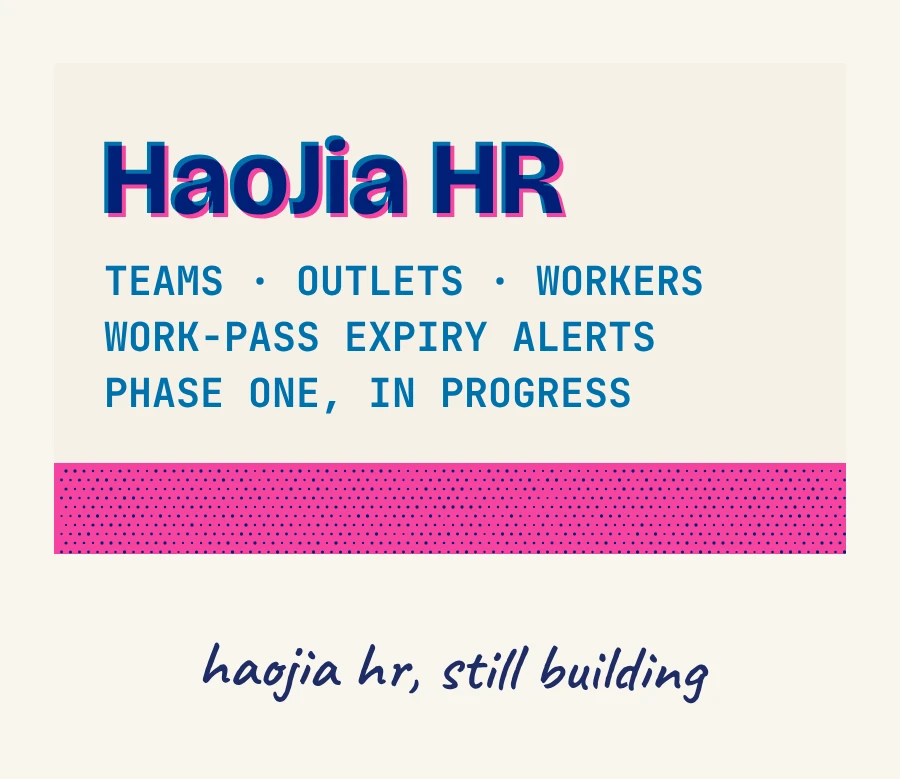
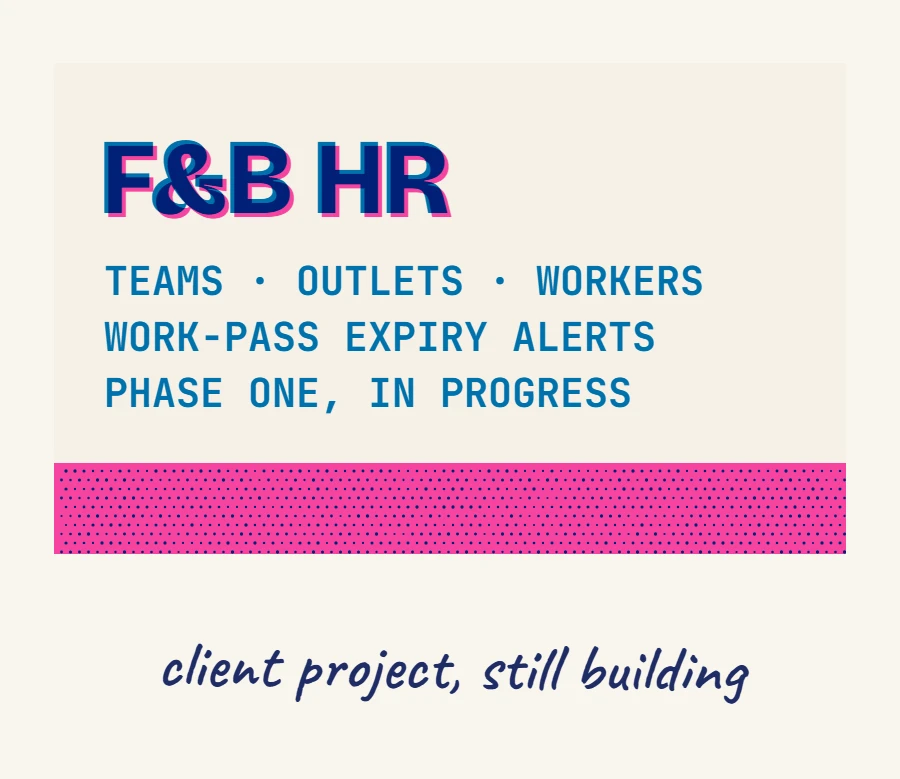
Update portfolio and project descriptions; modify launch configuration

Changed region(s): [[0.1244, 0.154, 0.6533, 0.3081], [0.1867, 0.8318, 0.84, 0.9243]]

diff --git a/site/index.html b/site/index.html
@@ -83,18 +83,17 @@
           <p class="links"><a href="https://buildup-showcase.vercel.app" target="_blank" rel="noopener">Showcase ↗</a><a href="https://buildup-showcase.vercel.app/prototype/jobseeker_latest.html" target="_blank" rel="noopener">Jobseeker app ↗</a><a href="https://buildup-showcase.vercel.app/prototype/employer_latest.html" target="_blank" rel="noopener">Employer portal ↗</a></p>
         </li>
         <li class="project" data-project="2">
-          <p class="meta mono">Personal project · 2026</p>
+          <p class="meta mono">Software Deployment and Evolution · 2026 · Team lead</p>
           <h3>kacha</h3>
-          <p>A photobooth in the browser. Choose a strip, take your shots, edit them with filters, and keep every strip in an album of memories.</p>
-          <ul class="stack mono"><li>React 19</li><li>Vite</li><li>Supabase Auth</li><li>Express</li></ul>
-          <p class="links"><a href="https://kacha-smoky.vercel.app" target="_blank" rel="noopener">Live site ↗</a><a href="https://github.com/Uwe1209/kacha" target="_blank" rel="noopener">Code ↗</a></p>
+          <p>A photobooth in the browser. Choose a strip, take your shots, edit them with filters, and keep every strip in an album of memories. I led the four-person team, built the server and CI, and deployed it on Vercel.</p>
+          <ul class="stack mono"><li>React 19</li><li>Vite</li><li>Express</li><li>PostgreSQL</li><li>GitHub Actions</li><li>Vercel</li></ul>
+          <p class="links"><a href="https://kacha-smoky.vercel.app" target="_blank" rel="noopener">Live site ↗</a></p>
         </li>
         <li class="project" data-project="3">
-          <p class="meta mono">2026 · Full-stack · in progress</p>
-          <h3>HaoJia HR</h3>
+          <p class="meta mono">Client project · 2026 · in progress</p>
+          <h3>F&amp;B HR System</h3>
           <p>An HR system for a food and beverage group with several outlets, replacing the staff spreadsheet with one source of truth. Phase one covers teams, outlets and worker profiles, with work-pass expiry warnings and role-based access designed into the database.</p>
           <ul class="stack mono"><li>React</li><li>TypeScript</li><li>Vite</li><li>Supabase</li><li>React Hook Form</li><li>Zod</li></ul>
-          <p class="links"><a href="https://github.com/Uwe1209/HaoJiaHRSystem" target="_blank" rel="noopener">Code ↗</a></p>
         </li>
         <li class="project" data-project="4">
           <p class="meta mono">2026 · Full-stack</p>

diff --git a/tools/bake/manifest.js b/tools/bake/manifest.js
@@ -541,7 +541,7 @@ export const TEXTURES = {
   'card-spex': { make: (p) => instant(p, 'spexMap', 'SPEX: catch it in the animals', { ratio: 0.7, seed: 101 }) },
   'card-buildup': { make: (p) => instant(p, 'pitch', 'BuildUp at URIIS 2026', { ratio: 0.66, pose: { zoom: 1.15, focusX: 0.52, focusY: 0.42 }, seed: 102 }) },
   'card-kacha': { make: (p) => instant(p, 'kacha', 'kacha! a photobooth', { ratio: 1.0, pose: { zoom: 1.9 }, seed: 103 }) },
-  'card-haojia': { make: () => typeCard('HaoJia HR', ['teams · outlets · workers', 'work-pass expiry alerts', 'phase one, in progress'], { caption: 'haojia hr, still building', seed: 104 }) },
+  'card-haojia': { make: () => typeCard('F&B HR', ['teams · outlets · workers', 'work-pass expiry alerts', 'phase one, in progress'], { caption: 'client project, still building', seed: 104 }) },
   'card-petaid': { make: () => typeCard('PetAid', ['first aid for pets', 'owners · vets · admins', 'react + express'], { ink: '#ff48b0', accent: '#0078bf', caption: 'petaid', seed: 105 }) },
   'card-herbarium': { make: (p) => instant(p, 'herbarium', 'herbarium project', { ratio: 0.6, pose: { focusX: 0 }, seed: 106 }) },
   'card-aws': { make: (p) => instant(p, 'aws', 'AWS, drawn properly', { ratio: 0.8, seed: 107 }) },

diff --git a/PORTFOLIO.md b/PORTFOLIO.md
@@ -41,11 +41,11 @@ Final-year Bachelor of Computer Science student, Swinburne University of Technol
 - **Key technologies:** React 19, Vite, Supabase Auth, Express, Vercel
 - **Description:** A photobooth that runs in the browser. Pick a strip, take your shots, edit them with filters, and keep every strip in an album of memories.
 
-## 4. HaoJia HR System
-**Full-stack · 2026 · in progress**
+## 4. F&B HR System
+**Client project · 2026 · in progress**
 
-- **Code:** https://github.com/Uwe1209/HaoJiaHRSystem
-- **Role:** Full-stack developer *[confirm: solo, or for a real client?]*
+- **Code:** private (client project)
+- **Role:** Full-stack developer
 - **What I did:** Designed the database and role-based access; built the team, outlet and worker profile modules with validated forms and work-pass expiry warnings
 - **Key technologies:** React, TypeScript, Vite, Supabase (PostgreSQL), React Hook Form, Zod
 - **Description:** An HR system for a food and beverage group with several outlets, replacing the staff spreadsheet with one source of truth.
